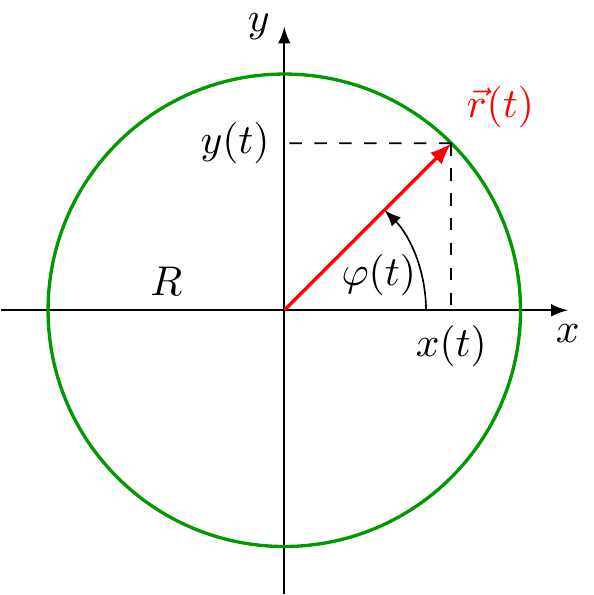
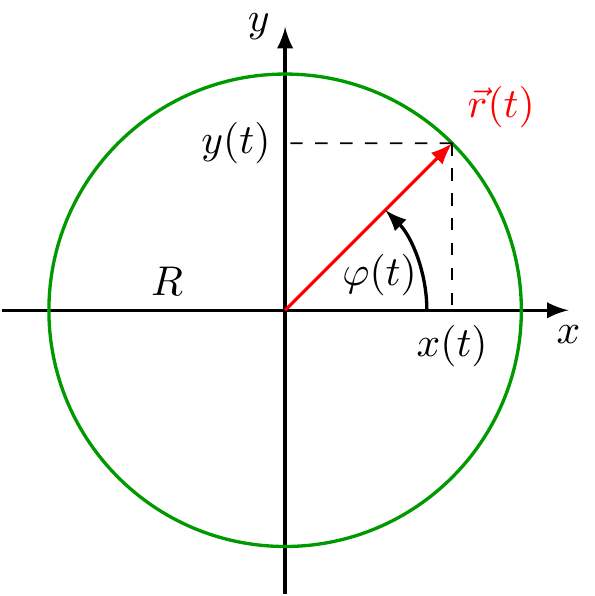
adding circular motion with velocity vector

diff --git a/mechanics/circular-motion/circular-motion_inverted.tex b/mechanics/circular-motion/circular-motion_inverted.tex
@@ -15,11 +15,11 @@
 
 \begin{document}
 \begin{tikzpicture}[inverted,scale=2]
-    \draw[->] (-1.2,0) -- (1.2,0) node[below] {$x$};
-    \draw[->] (0,-1.2) -- (0,1.2) node[left] {$y$};
+    \draw[->,thick] (-1.2,0) -- (1.2,0) node[below] {$x$};
+    \draw[->,thick] (0,-1.2) -- (0,1.2) node[left] {$y$};
     \draw[green, thick] (0,0) circle (1);
     \draw[->,thick,red] (0,0) -- (45:1) node[right,anchor=south west]{$\place(t)$};
-    \draw[->] (0.6,0) arc (0:45:0.6);
+    \draw[->,thick] (0.6,0) arc (0:45:0.6);
     \draw (0.4,0) node[above] {$\varphi(t)$};
     \draw (-0.5,0) node[above] {$R$};
     \draw[dashed] (0.707,0.707) -- (0.707,0) node[below] {$x(t)$};

diff --git a/mechanics/circular-motion/circular-motion.tex b/mechanics/circular-motion/circular-motion.tex
@@ -6,11 +6,11 @@
 
 \begin{document}
 \begin{tikzpicture}[scale=2]
-    \draw[->] (-1.2,0) -- (1.2,0) node[below] {$x$};
-    \draw[->] (0,-1.2) -- (0,1.2) node[left] {$y$};
+    \draw[->,thick] (-1.2,0) -- (1.2,0) node[below] {$x$};
+    \draw[->,thick] (0,-1.2) -- (0,1.2) node[left] {$y$};
     \draw[green, thick] (0,0) circle (1);
     \draw[->,thick,red] (0,0) -- (45:1) node[right,anchor=south west]{$\place(t)$};
-    \draw[->] (0.6,0) arc (0:45:0.6);
+    \draw[->,thick] (0.6,0) arc (0:45:0.6);
     \draw (0.4,0) node[above] {$\varphi(t)$};
     \draw (-0.5,0) node[above] {$R$};
     \draw[dashed] (0.707,0.707) -- (0.707,0) node[below] {$x(t)$};

diff --git a/mechanics.md b/mechanics.md
@@ -10,11 +10,11 @@
 
 \begin{document}
 \begin{tikzpicture}[scale=2]
-    \draw[->] (-1.2,0) -- (1.2,0) node[below] {$x$};
-    \draw[->] (0,-1.2) -- (0,1.2) node[left] {$y$};
+    \draw[->,thick] (-1.2,0) -- (1.2,0) node[below] {$x$};
+    \draw[->,thick] (0,-1.2) -- (0,1.2) node[left] {$y$};
     \draw[green, thick] (0,0) circle (1);
     \draw[->,thick,red] (0,0) -- (45:1) node[right,anchor=south west]{$\place(t)$};
-    \draw[->] (0.6,0) arc (0:45:0.6);
+    \draw[->,thick] (0.6,0) arc (0:45:0.6);
     \draw (0.4,0) node[above] {$\varphi(t)$};
     \draw (-0.5,0) node[above] {$R$};
     \draw[dashed] (0.707,0.707) -- (0.707,0) node[below] {$x(t)$};
@@ -85,6 +85,32 @@
   \begin{scope}[shift={(-0.03,0.03)}]
     \draw[->,thick,orange] (20:1) -- node[left, anchor=south east] {$\acceleration(t)$} (20:0.8);
   \end{scope}
+\end{tikzpicture}
+\end{document}
+~~~
+## circular-motion-velocity.svg
+[![circular-motion-velocity.svg](mechanics/circular-motion-velocity/circular-motion-velocity.svg "circular-motion-velocity.svg")](mechanics/circular-motion-velocity/circular-motion-velocity.svg) [[PDF]](mechanics/circular-motion-velocity/circular-motion-velocity.pdf) [[PNG]](mechanics/circular-motion-velocity/circular-motion-velocity.png) [[SVG]](mechanics/circular-motion-velocity/circular-motion-velocity.svg)
+~~~.tex
+\documentclass[crop,tikz]{standalone}
+
+\tikzset{>=latex}
+\usetikzlibrary{decorations.markings}
+\colorlet{green}{black!40!green}
+\newcommand{\place}{\vec{r}}
+\newcommand{\velocity}{\vec{v}}
+
+\begin{document}
+\begin{tikzpicture}[scale=2]
+    \draw[->,thick] (-1.2,0) -- (1.2,0) node[below] {$x$};
+    \draw[->,thick] (0,-1.2) -- (0,1.2) node[left] {$y$};
+    \draw[
+      decoration={markings, mark=at position 0.4 with {\arrow{>}}},
+      postaction={decorate},
+      green,
+      thick
+    ] (0,0) circle (1);
+      \draw[->,thick,red] (0,0) -- node[right,anchor=north west]{$\place(t)$} (45:1);
+    \draw[->,thick,blue] (45:1) -- +(135:0.6) node[right,anchor=south west]{$\velocity(t)$};
 \end{tikzpicture}
 \end{document}
 ~~~
@@ -518,11 +544,11 @@
 
 \begin{document}
 \begin{tikzpicture}[inverted,scale=2]
-    \draw[->] (-1.2,0) -- (1.2,0) node[below] {$x$};
-    \draw[->] (0,-1.2) -- (0,1.2) node[left] {$y$};
+    \draw[->,thick] (-1.2,0) -- (1.2,0) node[below] {$x$};
+    \draw[->,thick] (0,-1.2) -- (0,1.2) node[left] {$y$};
     \draw[green, thick] (0,0) circle (1);
     \draw[->,thick,red] (0,0) -- (45:1) node[right,anchor=south west]{$\place(t)$};
-    \draw[->] (0.6,0) arc (0:45:0.6);
+    \draw[->,thick] (0.6,0) arc (0:45:0.6);
     \draw (0.4,0) node[above] {$\varphi(t)$};
     \draw (-0.5,0) node[above] {$R$};
     \draw[dashed] (0.707,0.707) -- (0.707,0) node[below] {$x(t)$};
@@ -611,6 +637,41 @@
   \begin{scope}[shift={(-0.03,0.03)}]
     \draw[->,thick,orange] (20:1) -- node[left, anchor=south east] {$\acceleration(t)$} (20:0.8);
   \end{scope}
+\end{tikzpicture}
+\end{document}
+~~~
+## circular-motion-velocity_inverted.svg
+[![circular-motion-velocity_inverted.svg](mechanics/circular-motion-velocity/circular-motion-velocity_inverted.svg "circular-motion-velocity_inverted.svg")](mechanics/circular-motion-velocity/circular-motion-velocity_inverted.svg) [[PDF]](mechanics/circular-motion-velocity/circular-motion-velocity_inverted.pdf) [[PNG]](mechanics/circular-motion-velocity/circular-motion-velocity_inverted.png) [[SVG]](mechanics/circular-motion-velocity/circular-motion-velocity_inverted.svg)
+~~~.tex
+\documentclass[crop,tikz]{standalone}
+\usetikzlibrary{backgrounds}
+\colorlet{blue}{cyan}
+\tikzset{
+  inverted/.style = {
+    every path/.style = {draw=white,text=white},
+    background rectangle/.style={fill},
+    show background rectangle
+  }
+}
+
+\tikzset{>=latex}
+\usetikzlibrary{decorations.markings}
+\colorlet{green}{green}
+\newcommand{\place}{\vec{r}}
+\newcommand{\velocity}{\vec{v}}
+
+\begin{document}
+\begin{tikzpicture}[inverted,scale=2]
+    \draw[->,thick] (-1.2,0) -- (1.2,0) node[below] {$x$};
+    \draw[->,thick] (0,-1.2) -- (0,1.2) node[left] {$y$};
+    \draw[
+      decoration={markings, mark=at position 0.4 with {\arrow{>}}},
+      postaction={decorate},
+      green,
+      thick
+    ] (0,0) circle (1);
+      \draw[->,thick,red] (0,0) -- node[right,anchor=north west]{$\place(t)$} (45:1);
+    \draw[->,thick,blue] (45:1) -- +(135:0.6) node[right,anchor=south west]{$\velocity(t)$};
 \end{tikzpicture}
 \end{document}
 ~~~
